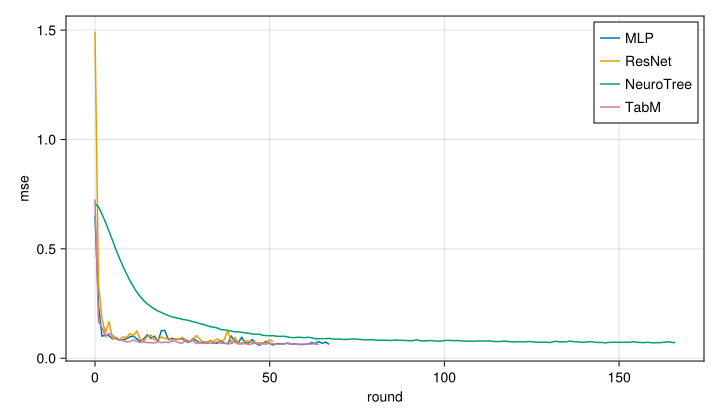
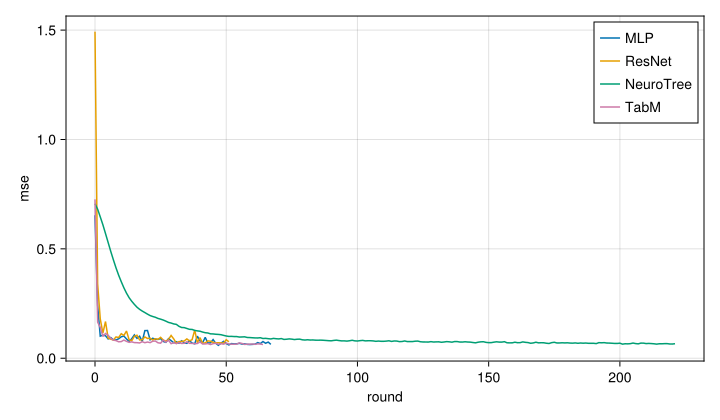
up

diff --git a/docs/src/quarto/bench-summary.md b/docs/src/quarto/bench-summary.md
@@ -13,8 +13,9 @@ compilation but depend on the machine, so runs are meant to be made on
 the same one.
 
 To add a run, render the reports with
-`julia --project=quarto quarto/benchmarks/run.jl`. Add a dataset as a
-new entry in `DATASETS` in `quarto/benchmarks/benchmarks.jl`.
+`julia --project=quarto quarto/benchmarks/run.jl` followed by the
+datasets. Add a dataset as a new entry in `DATASETS` in
+`quarto/benchmarks/benchmarks.jl`.
 
 ## boston
 
@@ -25,10 +26,10 @@ Version 0.5.0 on gpu with reactant.
 
 | **model** | **rmse** | **mae** | **best_iter** | **train_time** | **time_per_round** | **predict_time** |
 |---:|---:|---:|---:|---:|---:|---:|
-| MLP | 4.567 | 2.641 | 47 | 1.824 | 0.02722 | 0.1143 |
-| ResNet | 4.408 | 2.494 | 31 | 3.218 | 0.0631 | 0.1365 |
-| NeuroTree | 4.267 | 2.512 | 146 | 1.834 | 0.01105 | 0.2401 |
-| TabM | 3.875 | 2.4 | 44 | 2.676 | 0.04181 | 0.1501 |
+| MLP | 4.567 | 2.641 | 47 | 1.806 | 0.02695 | 0.1081 |
+| ResNet | 4.408 | 2.494 | 31 | 3.235 | 0.06344 | 0.136 |
+| NeuroTree | 4.025 | 2.355 | 201 | 2.106 | 0.009528 | 0.3405 |
+| TabM | 3.875 | 2.4 | 44 | 2.025 | 0.03163 | 0.1415 |
 
 ## california
 
@@ -39,10 +40,10 @@ Version 0.5.0 on gpu with reactant.
 
 | **model** | **rmse** | **mae** | **best_iter** | **train_time** | **time_per_round** | **predict_time** |
 |---:|---:|---:|---:|---:|---:|---:|
-| MLP | 52610.0 | 37150.0 | 84 | 2.398 | 0.02306 | 0.212 |
-| ResNet | 52780.0 | 35630.0 | 25 | 3.69 | 0.082 | 0.2694 |
-| NeuroTree | 51530.0 | 34610.0 | 173 | 2.003 | 0.01038 | 0.6252 |
-| TabM | 49110.0 | 33560.0 | 159 | 4.008 | 0.02239 | 0.2808 |
+| MLP | 52610.0 | 37150.0 | 84 | 2.387 | 0.02295 | 0.2068 |
+| ResNet | 52780.0 | 35630.0 | 25 | 3.666 | 0.08147 | 0.2733 |
+| NeuroTree | 51740.0 | 35290.0 | 193 | 5.428 | 0.02714 | 0.7159 |
+| TabM | 49110.0 | 33560.0 | 159 | 4.875 | 0.02724 | 0.2848 |
 
 ## higgs
 
@@ -53,10 +54,10 @@ Version 0.5.0 on gpu with reactant.
 
 | **model** | **logloss** | **accuracy** | **best_iter** | **train_time** | **time_per_round** | **predict_time** |
 |---:|---:|---:|---:|---:|---:|---:|
-| MLP | 0.5549 | 0.7138 | 11 | 2.696 | 0.08696 | 0.2442 |
-| ResNet | 0.5947 | 0.7074 | 6 | 4.855 | 0.1867 | 0.294 |
-| NeuroTree | 0.5317 | 0.7291 | 31 | 2.464 | 0.04832 | 0.6919 |
-| TabM | 0.5133 | 0.7452 | 96 | 8.184 | 0.08184 | 0.3399 |
+| MLP | 0.5549 | 0.7138 | 11 | 2.663 | 0.08591 | 0.214 |
+| ResNet | 0.5947 | 0.7074 | 6 | 4.698 | 0.1807 | 0.2911 |
+| NeuroTree | 0.5256 | 0.7363 | 45 | 8.233 | 0.1267 | 1.031 |
+| TabM | 0.5133 | 0.7452 | 96 | 7.129 | 0.07129 | 0.3335 |
 
 ## iris
 
@@ -67,10 +68,10 @@ Version 0.5.0 on gpu with reactant.
 
 | **model** | **mlogloss** | **accuracy** | **best_iter** | **train_time** | **time_per_round** | **predict_time** |
 |---:|---:|---:|---:|---:|---:|---:|
-| MLP | 0.1337 | 0.9565 | 11 | 1.862 | 0.06005 | 0.1829 |
-| ResNet | 0.1729 | 0.9565 | 10 | 3.387 | 0.1129 | 0.2071 |
-| NeuroTree | 0.02601 | 1 | 359 | 1.941 | 0.005121 | 0.2242 |
-| TabM | 0.03237 | 0.9565 | 152 | 2.48 | 0.01442 | 0.1726 |
+| MLP | 0.1337 | 0.9565 | 11 | 1.828 | 0.05897 | 0.1829 |
+| ResNet | 0.1729 | 0.9565 | 10 | 3.336 | 0.1112 | 0.2095 |
+| NeuroTree | 0.02673 | 1 | 285 | 1.727 | 0.005663 | 0.2376 |
+| TabM | 0.03237 | 0.9565 | 152 | 2.443 | 0.01421 | 0.1729 |
 
 ## titanic
 
@@ -81,7 +82,7 @@ Version 0.5.0 on gpu with reactant.
 
 | **model** | **logloss** | **accuracy** | **best_iter** | **train_time** | **time_per_round** | **predict_time** |
 |---:|---:|---:|---:|---:|---:|---:|
-| MLP | 0.3685 | 0.8477 | 4 | 1.817 | 0.0757 | 0.1108 |
-| ResNet | 0.3925 | 0.8426 | 6 | 3.299 | 0.1269 | 0.1429 |
-| NeuroTree | 0.365 | 0.8579 | 69 | 2.035 | 0.02287 | 0.2495 |
-| TabM | 0.4115 | 0.8223 | 16 | 2.071 | 0.05752 | 0.1459 |
+| MLP | 0.3685 | 0.8477 | 4 | 1.821 | 0.07589 | 0.1131 |
+| ResNet | 0.3925 | 0.8426 | 6 | 3.384 | 0.1302 | 0.1404 |
+| NeuroTree | 0.3709 | 0.8528 | 62 | 2.1 | 0.0256 | 0.345 |
+| TabM | 0.4115 | 0.8223 | 16 | 2.07 | 0.05749 | 0.1431 |

diff --git a/docs/src/quarto/bench-iris.md b/docs/src/quarto/bench-iris.md
@@ -33,7 +33,7 @@ number of rounds, the batch size and early stopping.
 archs = [
     "MLP" => MLPConfig(; hidden_size=64, stack_size=2),
     "ResNet" => ResNetConfig(; hidden_size=64, stack_size=2),
-    "NeuroTree" => NeuroTreeConfig(; depth=4, ntrees=32),
+    "NeuroTree" => NeuroTreeConfig(; k=8, depth=4, ntrees=32),
     "TabM" => TabMConfig(; k=8, d_block=128, n_blocks=2),
 ]
 settings = (; nrounds=spec.nrounds, batchsize=spec.batchsize, early_stopping_rounds=20, device, backend)
@@ -81,13 +81,13 @@ times in seconds.
 
 | **model** | **mlogloss** | **accuracy** | **best_iter** | **train_time** | **time_per_round** | **predict_time** |
 |---:|---:|---:|---:|---:|---:|---:|
-| MLP | 0.133708 | 0.956522 | 11.0 | 1.86162 | 0.0600523 | 0.182904 |
-| ResNet | 0.172913 | 0.956522 | 10.0 | 3.38663 | 0.112888 | 0.207058 |
-| NeuroTree | 0.0260106 | 1.0 | 359.0 | 1.9408 | 0.00512085 | 0.22417 |
-| TabM | 0.0323744 | 0.956522 | 152.0 | 2.48017 | 0.0144196 | 0.172585 |
+| MLP | 0.133708 | 0.956522 | 11.0 | 1.82792 | 0.0589653 | 0.182907 |
+| ResNet | 0.172913 | 0.956522 | 10.0 | 3.33591 | 0.111197 | 0.209479 |
+| NeuroTree | 0.0267331 | 1.0 | 285.0 | 1.72709 | 0.00566259 | 0.237566 |
+| TabM | 0.0323744 | 0.956522 | 152.0 | 2.44334 | 0.0142054 | 0.172878 |
 
-Run on NeuroTabModels 0.5.0 (35b6864), Julia 1.12.6, gpu, reactant,
-2026-10-18 13:20.
+Run on NeuroTabModels 0.5.0 (d547a0f), Julia 1.12.6, gpu, reactant,
+2026-10-18 17:09.
 
 ## Learning curves
 

diff --git a/docs/src/quarto/bench-higgs.md b/docs/src/quarto/bench-higgs.md
@@ -33,7 +33,7 @@ number of rounds, the batch size and early stopping.
 archs = [
     "MLP" => MLPConfig(; hidden_size=64, stack_size=2),
     "ResNet" => ResNetConfig(; hidden_size=64, stack_size=2),
-    "NeuroTree" => NeuroTreeConfig(; depth=4, ntrees=32),
+    "NeuroTree" => NeuroTreeConfig(; k=8, depth=4, ntrees=32),
     "TabM" => TabMConfig(; k=8, d_block=128, n_blocks=2),
 ]
 settings = (; nrounds=spec.nrounds, batchsize=spec.batchsize, early_stopping_rounds=20, device, backend)
@@ -81,13 +81,13 @@ times in seconds.
 
 | **model** | **logloss** | **accuracy** | **best_iter** | **train_time** | **time_per_round** | **predict_time** |
 |---:|---:|---:|---:|---:|---:|---:|
-| MLP | 0.554861 | 0.713829 | 11.0 | 2.69585 | 0.0869629 | 0.24423 |
-| ResNet | 0.594723 | 0.70737 | 6.0 | 4.85549 | 0.186749 | 0.294001 |
-| NeuroTree | 0.531685 | 0.729127 | 31.0 | 2.46421 | 0.0483178 | 0.691919 |
-| TabM | 0.513278 | 0.745173 | 96.0 | 8.18368 | 0.0818368 | 0.339904 |
+| MLP | 0.554861 | 0.713829 | 11.0 | 2.66312 | 0.0859071 | 0.213959 |
+| ResNet | 0.594723 | 0.70737 | 6.0 | 4.69819 | 0.1807 | 0.291089 |
+| NeuroTree | 0.525552 | 0.736266 | 45.0 | 8.23265 | 0.126656 | 1.03066 |
+| TabM | 0.513278 | 0.745173 | 96.0 | 7.12874 | 0.0712874 | 0.333534 |
 
-Run on NeuroTabModels 0.5.0 (35b6864), Julia 1.12.6, gpu, reactant,
-2026-10-18 13:15.
+Run on NeuroTabModels 0.5.0 (d547a0f), Julia 1.12.6, gpu, reactant,
+2026-10-18 17:19.
 
 ## Learning curves
 

diff --git a/docs/src/quarto/bench-titanic.md b/docs/src/quarto/bench-titanic.md
@@ -33,7 +33,7 @@ number of rounds, the batch size and early stopping.
 archs = [
     "MLP" => MLPConfig(; hidden_size=64, stack_size=2),
     "ResNet" => ResNetConfig(; hidden_size=64, stack_size=2),
-    "NeuroTree" => NeuroTreeConfig(; depth=4, ntrees=32),
+    "NeuroTree" => NeuroTreeConfig(; k=8, depth=4, ntrees=32),
     "TabM" => TabMConfig(; k=8, d_block=128, n_blocks=2),
 ]
 settings = (; nrounds=spec.nrounds, batchsize=spec.batchsize, early_stopping_rounds=20, device, backend)
@@ -81,13 +81,13 @@ times in seconds.
 
 | **model** | **logloss** | **accuracy** | **best_iter** | **train_time** | **time_per_round** | **predict_time** |
 |---:|---:|---:|---:|---:|---:|---:|
-| MLP | 0.368548 | 0.847716 | 4.0 | 1.8167 | 0.0756957 | 0.11083 |
-| ResNet | 0.39246 | 0.84264 | 6.0 | 3.29939 | 0.126899 | 0.142933 |
-| NeuroTree | 0.365034 | 0.857868 | 69.0 | 2.03528 | 0.0228684 | 0.249501 |
-| TabM | 0.41148 | 0.822335 | 16.0 | 2.07075 | 0.0575209 | 0.145914 |
+| MLP | 0.368548 | 0.847716 | 4.0 | 1.82131 | 0.0758878 | 0.113101 |
+| ResNet | 0.39246 | 0.84264 | 6.0 | 3.38433 | 0.130167 | 0.140383 |
+| NeuroTree | 0.370896 | 0.852792 | 62.0 | 2.09957 | 0.0256046 | 0.345027 |
+| TabM | 0.41148 | 0.822335 | 16.0 | 2.0695 | 0.0574862 | 0.143062 |
 
-Run on NeuroTabModels 0.5.0 (35b6864), Julia 1.12.6, gpu, reactant,
-2026-10-18 13:26.
+Run on NeuroTabModels 0.5.0 (d547a0f), Julia 1.12.6, gpu, reactant,
+2026-10-18 17:04.
 
 ## Learning curves
 

diff --git a/docs/src/quarto/bench-boston.md b/docs/src/quarto/bench-boston.md
@@ -34,7 +34,7 @@ number of rounds, the batch size and early stopping.
 archs = [
     "MLP" => MLPConfig(; hidden_size=64, stack_size=2),
     "ResNet" => ResNetConfig(; hidden_size=64, stack_size=2),
-    "NeuroTree" => NeuroTreeConfig(; depth=4, ntrees=32),
+    "NeuroTree" => NeuroTreeConfig(; k=8, depth=4, ntrees=32),
     "TabM" => TabMConfig(; k=8, d_block=128, n_blocks=2),
 ]
 settings = (; nrounds=spec.nrounds, batchsize=spec.batchsize, early_stopping_rounds=20, device, backend)
@@ -82,13 +82,13 @@ times in seconds.
 
 | **model** | **rmse** | **mae** | **best_iter** | **train_time** | **time_per_round** | **predict_time** |
 |---:|---:|---:|---:|---:|---:|---:|
-| MLP | 4.56701 | 2.64063 | 47.0 | 1.82388 | 0.0272221 | 0.114309 |
-| ResNet | 4.40802 | 2.49413 | 31.0 | 3.21796 | 0.0630972 | 0.136483 |
-| NeuroTree | 4.26742 | 2.51243 | 146.0 | 1.83395 | 0.0110479 | 0.240141 |
-| TabM | 3.87454 | 2.39958 | 44.0 | 2.67555 | 0.0418055 | 0.150133 |
+| MLP | 4.56701 | 2.64063 | 47.0 | 1.80567 | 0.0269503 | 0.108138 |
+| ResNet | 4.40802 | 2.49413 | 31.0 | 3.23541 | 0.0634393 | 0.136033 |
+| NeuroTree | 4.02453 | 2.35547 | 201.0 | 2.10571 | 0.0095281 | 0.340475 |
+| TabM | 3.87454 | 2.39958 | 44.0 | 2.02461 | 0.0316345 | 0.14147 |
 
-Run on NeuroTabModels 0.5.0 (35b6864), Julia 1.12.6, gpu, reactant,
-2026-10-18 13:04.
+Run on NeuroTabModels 0.5.0 (d547a0f), Julia 1.12.6, gpu, reactant,
+2026-10-18 16:59.
 
 ## Learning curves
 

diff --git a/docs/src/quarto/bench-california.md b/docs/src/quarto/bench-california.md
@@ -34,7 +34,7 @@ number of rounds, the batch size and early stopping.
 archs = [
     "MLP" => MLPConfig(; hidden_size=64, stack_size=2),
     "ResNet" => ResNetConfig(; hidden_size=64, stack_size=2),
-    "NeuroTree" => NeuroTreeConfig(; depth=4, ntrees=32),
+    "NeuroTree" => NeuroTreeConfig(; k=8, depth=4, ntrees=32),
     "TabM" => TabMConfig(; k=8, d_block=128, n_blocks=2),
 ]
 settings = (; nrounds=spec.nrounds, batchsize=spec.batchsize, early_stopping_rounds=20, device, backend)
@@ -82,13 +82,13 @@ times in seconds.
 
 | **model** | **rmse** | **mae** | **best_iter** | **train_time** | **time_per_round** | **predict_time** |
 |---:|---:|---:|---:|---:|---:|---:|
-| MLP | 52614.7 | 37151.3 | 84.0 | 2.39782 | 0.0230559 | 0.212002 |
-| ResNet | 52777.5 | 35632.1 | 25.0 | 3.68986 | 0.081997 | 0.269429 |
-| NeuroTree | 51534.2 | 34610.5 | 173.0 | 2.00308 | 0.0103786 | 0.625169 |
-| TabM | 49108.5 | 33555.3 | 159.0 | 4.00756 | 0.0223886 | 0.280835 |
+| MLP | 52614.7 | 37151.3 | 84.0 | 2.38659 | 0.022948 | 0.206756 |
+| ResNet | 52777.5 | 35632.1 | 25.0 | 3.66605 | 0.0814679 | 0.273297 |
+| NeuroTree | 51739.2 | 35288.3 | 193.0 | 5.42781 | 0.0271391 | 0.715881 |
+| TabM | 49108.5 | 33555.3 | 159.0 | 4.87542 | 0.027237 | 0.284845 |
 
-Run on NeuroTabModels 0.5.0 (35b6864), Julia 1.12.6, gpu, reactant,
-2026-10-18 13:10.
+Run on NeuroTabModels 0.5.0 (d547a0f), Julia 1.12.6, gpu, reactant,
+2026-10-18 17:14.
 
 ## Learning curves
 
